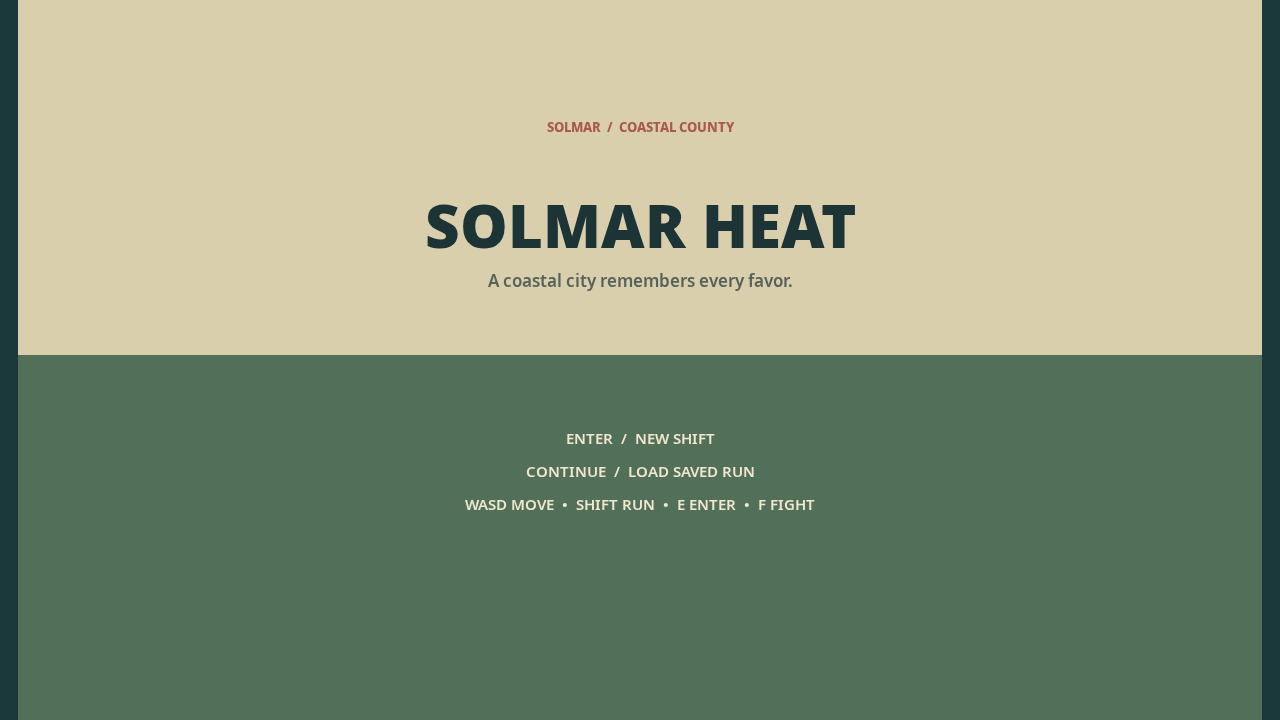
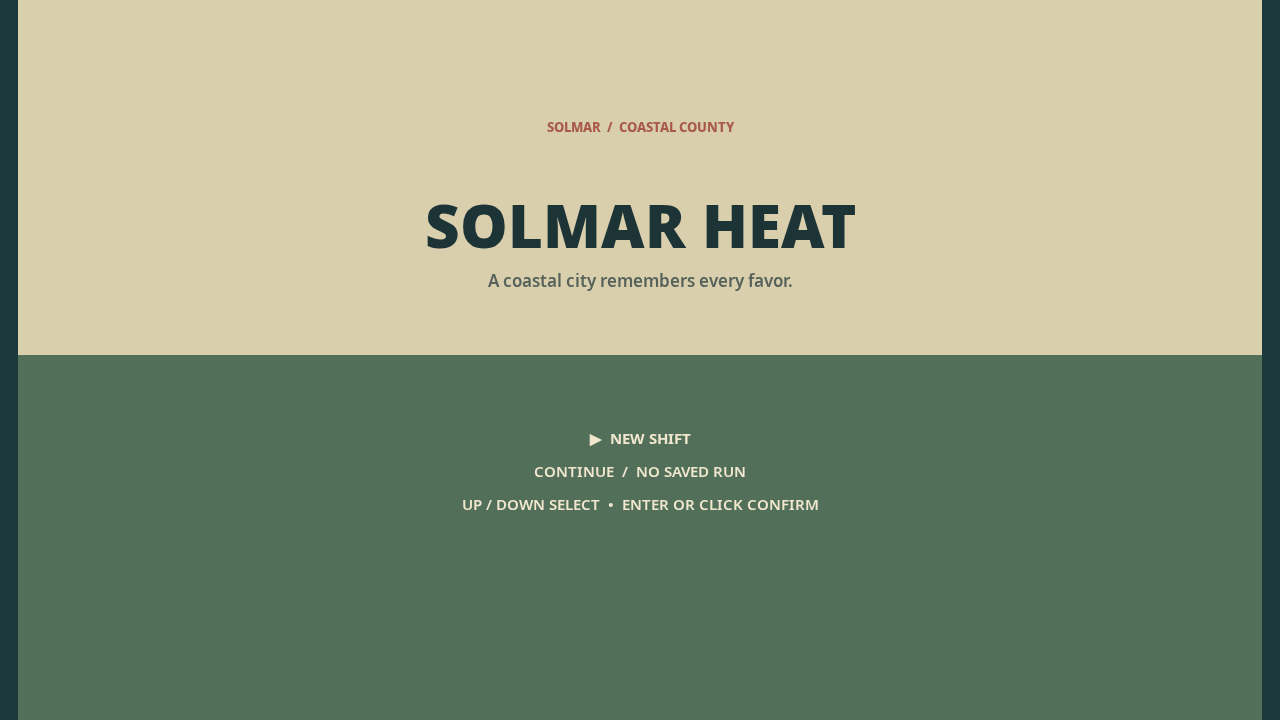
Polish Solmar Heat missions and menu

Changed region(s): [[0.375, 0.5806, 0.625, 0.7333]]

diff --git a/game/src/main.js b/game/src/main.js
@@ -21,8 +21,9 @@ const saved=loadSave();
 const player=createPlayer(); player.health=100; player.ammo=18; player.hasWeapon=false;
 
 function particleSystem(){return {items:[],burst(x,y,color,count){for(let i=0;i<count;i++){const angle=random()*Math.PI*2,speed=25+random()*110;this.items.push({x,y,vx:Math.cos(angle)*speed,vy:Math.sin(angle)*speed,size:2+random()*4,color,life:.25+random()*.55});}},step(dt){for(const item of this.items){item.x+=item.vx*dt;item.y+=item.vy*dt;item.life-=dt;}this.items=this.items.filter(item=>item.life>0);}};}
-const state={player,cars:createTraffic(random),peds:createPedestrians(random),wanted:null,missions:createMissions(saved.mission),cash:saved.cash,packages:[],packagesFound:saved.packages||0,safehouse:!!saved.safehouse,bestCar:!!saved.bestCar,skids:[],roadblocks:[],particles:particleSystem(),shake:0,clock:17*60+12,screen:'title',taxiActive:false,taxiTarget:null,weapon:{x:1425,y:1055,taken:false},audio,save:()=>storeSave(state)};
+const state={player,cars:createTraffic(random),peds:createPedestrians(random),wanted:null,missions:createMissions(saved.mission),cash:saved.cash,packages:[],packagesFound:saved.packages||0,safehouse:!!saved.safehouse,bestCar:!!saved.bestCar,hasContinue:saved.cash!==450||saved.mission>0,menuIndex:saved.cash!==450||saved.mission>0?1:0,skids:[],roadblocks:[],particles:particleSystem(),shake:0,clock:17*60+12,screen:'title',taxiActive:false,taxiTarget:null,unlockNotice:'',unlockNoticeTimer:0,weapon:{x:1425,y:1055,taken:false},audio,save:()=>storeSave(state)};
 state.wanted=createWanted(state);
+if(saved.mission===2){state.wanted.heat=60;state.wanted.level=3;state.wanted.sight=7;}
 for(const car of state.cars){car.x=Math.round(car.x);car.y=Math.round(car.y);}
 state.cars.unshift({id:'starter-sedan',type:'sedan',color:'#d8d2b9',x:1365,y:1080,angle:0,speed:0,player:false,occupied:false});
 for(const [x,y] of [[620,420],[2360,910],[1180,1630],[1810,430],[940,1120],[2650,1280]])state.packages.push({x,y,taken:false});
@@ -56,11 +57,30 @@ function shoot(){
 }
 function hitRival(){const target=state.peds.find(p=>p.rival&&p.alive&&Math.hypot(p.x-state.player.x,p.y-state.player.y)<48);if(target){target.hp=(target.hp||2)-1;state.audio.play('punch');state.particles.burst(target.x,target.y,'#ce7656',5);if(target.hp<=0)target.alive=false;}else punchNearby(state);}
 function respawn(reason){screen=reason;state.screen=reason;state.player.health=0;state.player.car=null;state.cash=Math.max(0,state.cash-350);state.wanted.heat=0;state.wanted.level=0;state.cars=state.cars.filter(car=>!car.police);state.player.x=1260;state.player.y=1160;state.player.health=100;state.player.ammo=Math.max(0,state.player.ammo);state.player.invulnerable=2;state.save();}
+function checkUnlocks(){
+  if(!state.safehouse&&state.cash>=1200){state.safehouse=true;state.unlockNotice='PALMA COURT SAFEHOUSE UNLOCKED';state.unlockNoticeTimer=6;state.save();}
+  if(!state.bestCar&&state.cash>=2500){
+    state.bestCar=true;improveTraffic(state);
+    state.cars.push({id:'garage-sport-a',type:'sport',color:'#d95443',x:375,y:205,angle:Math.PI/2,speed:0,player:false,occupied:false});
+    state.cars.push({id:'garage-sport-b',type:'sport',color:'#67a9a1',x:625,y:205,angle:Math.PI/2,speed:0,player:false,occupied:false});
+    state.unlockNotice='GLASS MILE SPORTS ADDED TO TRAFFIC';state.unlockNoticeTimer=6;state.save();
+  }
+}
 function act(){
+  if(screen==='title'){
+    if(input.hit('ArrowUp','KeyW'))state.menuIndex=0;
+    if(input.hit('ArrowDown','KeyS'))state.menuIndex=1;
+    const confirm=input.hit('Enter')||input.clicked();
+    if(confirm&&!(state.menuIndex===1&&!state.hasContinue)){
+      audio.unlock();
+      if(state.menuIndex===0){state.cash=450;state.packagesFound=0;state.missions=createMissions(0);state.hasContinue=false;state.player.health=100;state.player.ammo=18;state.player.hasWeapon=false;}
+      state.player.x=1420;state.player.y=1080;state.missions.active=true;state.screen=screen='play';
+    }
+    return;
+  }
   if(input.hit('Enter')){
     audio.unlock();
-    if(screen==='title'){state.screen=screen='play';state.player.x=1420;state.player.y=1080;state.missions.active=true;}
-    else if(screen==='mission-complete'){nextMission(state);screen=state.screen='play';}
+    if(screen==='mission-complete'){nextMission(state);screen=state.screen='play';}
     else if(screen==='mission-failed'){restartMission(state);screen=state.screen='play';}
     else if(screen==='busted'||screen==='wasted'){screen=state.screen='play';state.player.health=100;state.player.x=1260;state.player.y=1160;state.player.invulnerable=1.5;}
     else if(screen==='play'&&state.missions.complete){screen=state.screen='mission-complete';}
@@ -71,7 +91,7 @@ function act(){
   if(input.hit('KeyF')){hitRival();}
   if(input.hit('KeyT'))doSideWork(state);
   if(input.hit('KeyG')&&clearWanted(state))missionToast=1.5;
-  if(input.hit('KeyQ')&&Math.hypot(state.player.x-SAFEHOUSE.x,state.player.y-SAFEHOUSE.y)<110){state.safehouse=true;state.cash=Math.max(0,state.cash-300);state.save();missionToast=2;}
+  if(input.hit('KeyQ')&&state.safehouse&&Math.hypot(state.player.x-SAFEHOUSE.x,state.player.y-SAFEHOUSE.y)<110&&state.cash>=150){state.cash-=150;state.player.health=100;state.player.ammo=18;state.player.hasWeapon=true;state.save();missionToast=2;state.unlockNotice='PALMA COURT GARAGE / SERVICE PAID';state.unlockNoticeTimer=3;}
   if(input.firing())shoot();
   if(state.player.car && state.player.car.type==='taxi' && input.hit('KeyH'))doSideWork(state);
 }
@@ -82,14 +102,14 @@ function step(dt){
   if(state.wanted.level>0){audio.siren(true);if(state.player.car&&state.cars.some(car=>car.police&&Math.hypot(car.x-state.player.x,car.y-state.player.y)<38)){state.player.car.speed*=.75;state.shake=8;state.wanted.raise(.12);}}
   else audio.siren(false);
   state.particles.step(dt);state.shake=Math.max(0,state.shake-dt*19);missionToast=Math.max(0,missionToast-dt);
-  if(state.taxiActive&&state.taxiTarget&&Math.hypot(state.player.x-state.taxiTarget.x,state.player.y-state.taxiTarget.y)<100){state.cash+=350;state.taxiActive=false;state.taxiTarget=null;audio.play('mission');}
+  if(state.taxiActive&&state.taxiTarget&&Math.hypot(state.player.x-state.taxiTarget.x,state.player.y-state.taxiTarget.y)<100){state.cash+=350;state.taxiActive=false;state.taxiTarget=null;audio.play('mission');state.save();}
   if(!state.weapon.taken&&Math.hypot(state.player.x-state.weapon.x,state.player.y-state.weapon.y)<25){state.weapon.taken=true;state.player.hasWeapon=true;state.player.ammo=18;audio.play('pickup');}
   updateMissions(state,dt);state.player.cash=state.cash;
+  checkUnlocks();state.unlockNoticeTimer=Math.max(0,state.unlockNoticeTimer-dt);
   if(state.missions.complete)screen=state.screen='mission-complete';
   if(state.missions.failed)screen=state.screen='mission-failed';
   if(state.player.caught){state.player.caught=false;respawn('busted');}
   if(state.player.health<=0)respawn('wasted');
-  if(state.cash>=3500&&!state.bestCar){state.bestCar=true;improveTraffic(state);state.save();}
 }
 function frame(now){requestAnimationFrame(frame);const dt=Math.min(MAX_FRAME,Math.max(0,(now-last)/1000));last=now;act();acc+=dt;if(screen==='play'){while(acc>=STEP){step(STEP);acc-=STEP;}}else acc=0;renderer.draw(state,screen);input.finish();}
 

diff --git a/game/src/render.js b/game/src/render.js
@@ -64,7 +64,20 @@ export function createRenderer(canvas) {
     const p=state.player;camera.x=Math.max(0,Math.min(WORLD.width-W,(p.x-W/2)));camera.y=Math.max(0,Math.min(WORLD.height-H,(p.y-H/2)));
     if(state.shake>0){camera.x+=(Math.random()-.5)*state.shake;camera.y+=(Math.random()-.5)*state.shake;}
     ctx.clearRect(0,0,W,H);
-    if(screen==='title'){worldBackground(state);ctx.save();ctx.translate(-camera.x,-camera.y);for(const car of state.cars.slice(0,10))drawCar(car);for(const ped of state.peds.slice(0,12))drawPerson(ped,state);ctx.restore();hud.panel('SOLMAR HEAT','A coastal city remembers every favor.',['ENTER  /  NEW SHIFT','CONTINUE  /  LOAD SAVED RUN','WASD MOVE  •  SHIFT RUN  •  E ENTER  •  F FIGHT']);return;}
+    if(screen==='title'){
+      worldBackground(state);ctx.save();ctx.translate(-camera.x,-camera.y);
+      for(const car of state.cars.slice(0,10))drawCar(car);
+      for(const ped of state.peds.slice(0,12))drawPerson(ped,state);
+      ctx.restore();
+      const newLabel=state.menuIndex===0?'▶  NEW SHIFT':'NEW SHIFT';
+      const continueLabel=state.menuIndex===1?'▶  CONTINUE':'CONTINUE';
+      hud.panel('SOLMAR HEAT','A coastal city remembers every favor.',[
+        newLabel,
+        state.hasContinue?continueLabel:'CONTINUE  /  NO SAVED RUN',
+        'UP / DOWN SELECT  •  ENTER OR CLICK CONFIRM',
+      ]);
+      return;
+    }
     drawWorld(state);hud.bars(state);hud.map(state);
     if(screen==='paused')hud.panel('SHIFT PAUSED','The city keeps its place.',['ESC OR P  /  RETURN TO THE STREET','ENTER  /  CONTINUE']);
     else if(screen==='mission-complete')hud.panel('JOB CLEARED',state.missions.current?.title||'LAST LIGHT',['PAYMENT CLEARED  •  ENTER TO CONTINUE']);

diff --git a/game/src/missions.js b/game/src/missions.js
@@ -42,7 +42,7 @@ export function updateMissions(state, dt) {
     else if (mission.stage===1 && near(state.player,task.target,80)) { mission.stage=2; mission.current.text='Get the ledger to the beach rendezvous.'; mission.current.target={x:1280,y:1810}; state.cash += 900; state.particles.burst(state.player.x,state.player.y,'#edc957',22); }
     else if (mission.stage===2 && near(state.player.car||state.player,task.target,110)) finish(state);
   }
-  for (const pack of state.packages) if (!pack.taken && near(state.player,pack,27)) { pack.taken=true; state.cash+=250; state.packagesFound++; state.audio.play('pickup'); state.particles.burst(pack.x,pack.y,'#f5d85a',10); if (task.kind==='packages') mission.progress++; }
+  for (const pack of state.packages) if (!pack.taken && near(state.player,pack,27)) { pack.taken=true; state.cash+=250; state.packagesFound++; state.audio.play('pickup'); state.particles.burst(pack.x,pack.y,'#f5d85a',10); state.save(); if (task.kind==='packages') mission.progress++; }
 }
 
 function finish(state) {
@@ -63,7 +63,7 @@ export function restartMission(state) {
 }
 
 export function doSideWork(state) {
-  if (state.taxiActive) { state.taxiActive=false; state.cash += 350; state.audio.play('mission'); return true; }
+  if (state.taxiActive) return false;
   if (state.player.car?.type==='taxi') { state.taxiActive=true; state.taxiTarget={x:520,y:300}; return true; }
   return false;
 }

diff --git a/main.ts b/main.ts
@@ -6,7 +6,7 @@
 // Outside the grader's container, MAKEFUN_OUTPUT_DIR stands in for /output:
 //   mkdir -p out && MAKEFUN_OUTPUT_DIR=out node main.ts
 
-import { cpSync, existsSync, mkdirSync, writeFileSync } from 'node:fs';
+import { cpSync, existsSync, mkdirSync, readFileSync, writeFileSync } from 'node:fs';
 import { join } from 'node:path';
 import { fileURLToPath } from 'node:url';
 import { buildDossier } from './vendor/makefun-game.ts';
@@ -16,6 +16,16 @@ const out = process.env.MAKEFUN_OUTPUT_DIR ?? '/output';
 
 if (!existsSync(join(here, 'game', 'index.html'))) throw new Error('SOLMAR HEAT requires game/index.html');
 if (!existsSync(join(here, 'screenshots'))) throw new Error('SOLMAR HEAT requires its screenshot set');
+const shotList = JSON.parse(readFileSync(join(here, 'shots.json'), 'utf8'));
+const requiredShots = [
+  ['1-cover.png', '?shot=chase&seed=614'],
+  ['2-street.png', '?shot=street&seed=614'],
+  ['3-mission.png', '?shot=mission&seed=614'],
+  ['4-start.png', '?shot=start&seed=614'],
+];
+if (!Array.isArray(shotList) || shotList.length !== requiredShots.length || requiredShots.some(([name, query], index) => shotList[index]?.name !== name || shotList[index]?.query !== query)) {
+  throw new Error('SOLMAR HEAT screenshot manifest does not match its staged scenes');
+}
 
 mkdirSync(out, { recursive: true });
 cpSync(join(here, 'game'), join(out, 'game'), { recursive: true });

diff --git a/game/src/input.js b/game/src/input.js
@@ -4,6 +4,7 @@ export function createInput(canvas) {
   const held = new Set();
   const pressed = new Set();
   let pointerFire = false;
+  let pointerClick = false;
   window.addEventListener('keydown', event => {
     if (HELD_KEYS.has(event.code) || ['KeyE','KeyF','KeyP','Enter','Escape'].includes(event.code)) event.preventDefault();
     if (!held.has(event.code)) pressed.add(event.code);
@@ -11,11 +12,12 @@ export function createInput(canvas) {
   });
   window.addEventListener('keyup', event => held.delete(event.code));
   window.addEventListener('blur', () => held.clear());
-  canvas.addEventListener('pointerdown', event => { if (event.button === 0) pointerFire = true; });
+  canvas.addEventListener('pointerdown', event => { if (event.button === 0) { pointerFire = true; pointerClick = true; } });
   return {
     down(...codes) { return codes.some(code => held.has(code)); },
     hit(...codes) { return codes.some(code => pressed.has(code)); },
     firing() { const fire = pointerFire; pointerFire = false; return fire || this.hit('Space'); },
+    clicked() { const click = pointerClick; pointerClick = false; if (click) pointerFire = false; return click; },
     finish() { pressed.clear(); },
   };
 }

diff --git a/game/src/hud.js b/game/src/hud.js
@@ -50,6 +50,7 @@ export function createHud(ctx,roundRect,text){
     }
     if(state.taxiActive)text('FARE  /  FOLLOW THE GOLD MARKER',640,133,12,'#f1d16e',800,'center');
     if(state.wanted.level>=4)text('ROADBLOCKS AHEAD',640,176,11,'#ef7761',800,'center');
+    if(state.unlockNoticeTimer>0)text(state.unlockNotice,640,206,12,'#f3d16a',800,'center');
   }
 
   function panel(title,subtitle,items=[]){
@@ -60,7 +61,7 @@ export function createHud(ctx,roundRect,text){
     text('SOLMAR  /  COASTAL COUNTY',640,128,13,'#a95b49',800,'center');
     text(title,640,231,60,'#1d3436',900,'center');
     text(subtitle,640,282,17,'#56625a',600,'center');
-    for(let index=0;index<items.length;index++)text(items[index],640,440+index*33,15,'#f0e7ce',600,'center');
+    for(let index=0;index<items.length;index++)text(items[index],640,440+index*33,15,'#f0e7ce',index===0?700:600,'center');
   }
 
   return {map,bars,panel};

diff --git a/game/src/police.js b/game/src/police.js
@@ -35,5 +35,5 @@ export function updatePolice(state, dt, random) {
 export function clearWanted(state) {
   if (Math.hypot(state.player.x - 2710, state.player.y - 1520) > 110 || state.cash < 180) return false;
   state.cash -= 180; state.player.cash = state.cash; state.wanted.heat = 0; state.wanted.level = 0; state.wanted.sight = 0;
-  state.cars = state.cars.filter(car => !car.police); state.audio.play('pickup'); return true;
+  state.cars = state.cars.filter(car => !car.police); state.audio.play('pickup'); state.save(); return true;
 }
